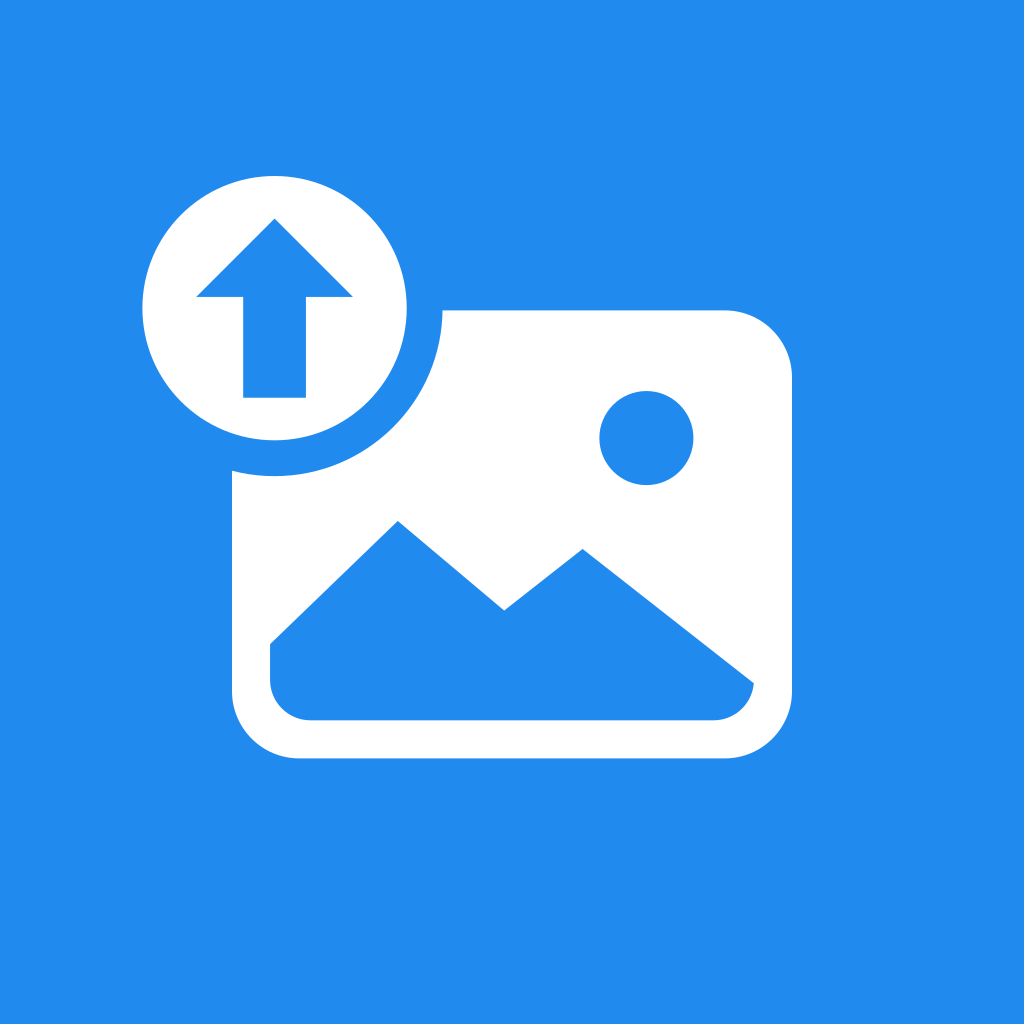
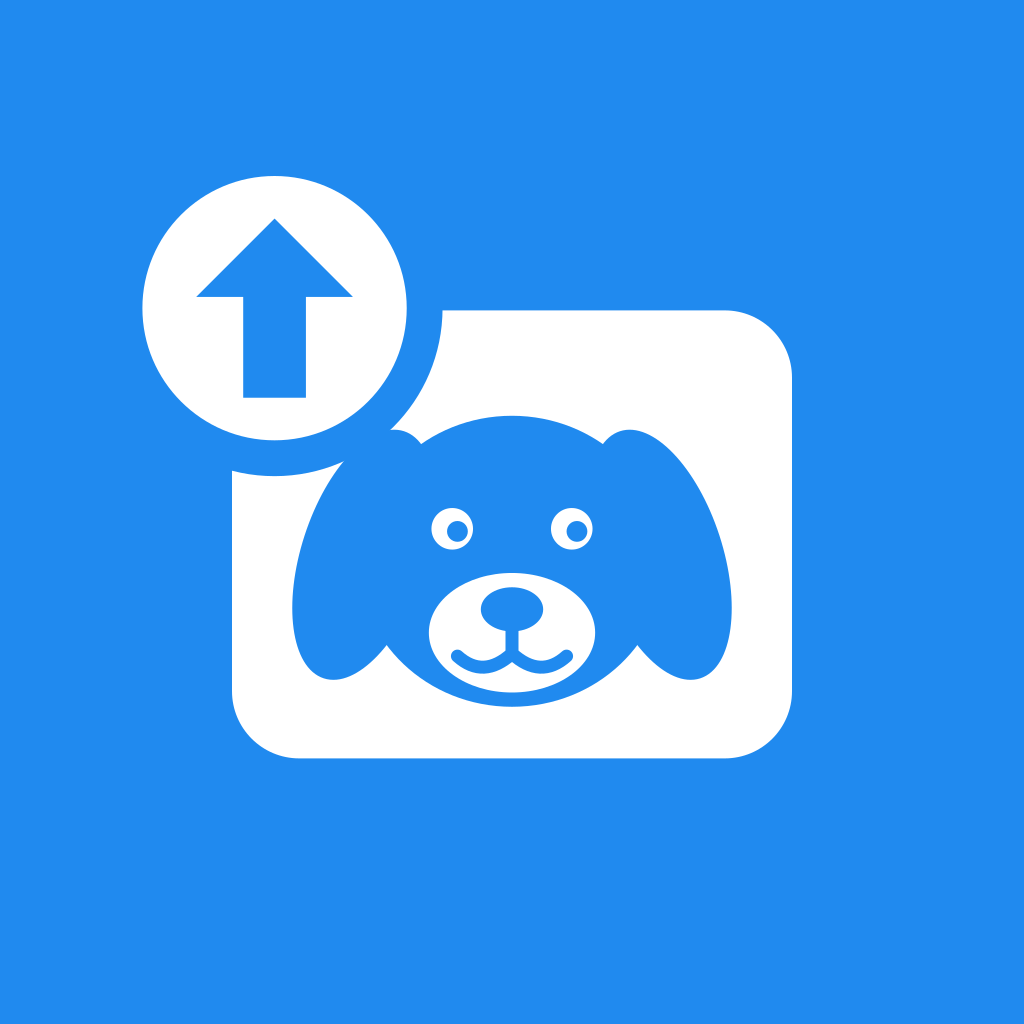
dog

Changed region(s): [[0.25, 0.375, 0.75, 0.7188]]

diff --git a/assets/logo/make.js b/assets/logo/make.js
@@ -20,10 +20,24 @@ function artwork(ink, hole) {
     <!-- picture area inset from the card so a white frame shows on every side -->
     <clipPath id="picture"><rect x="296" y="366" width="432" height="332" rx="36"/></clipPath>
     <g clip-path="url(#picture)">
-      <!-- sun -->
-      <circle cx="632" cy="446" r="42" fill="${hole}"/>
-      <!-- mountains -->
-      <path d="M296 720 L296 630 L410 520 L505 600 L575 545 L728 665 L728 720 Z" fill="${hole}"/>
+     <g transform="translate(512 556) scale(1.16) translate(-512 -545)">
+      <!-- dog: floppy ears -->
+      <ellipse cx="398" cy="540" rx="48" ry="100" transform="rotate(18 398 540)" fill="${hole}"/>
+      <ellipse cx="626" cy="540" rx="48" ry="100" transform="rotate(-18 626 540)" fill="${hole}"/>
+      <!-- head -->
+      <ellipse cx="512" cy="545" rx="118" ry="112" fill="${hole}"/>
+      <!-- muzzle -->
+      <ellipse cx="512" cy="600" rx="64" ry="46" fill="${ink}"/>
+      <!-- nose -->
+      <ellipse cx="512" cy="582" rx="24" ry="17" fill="${hole}"/>
+      <!-- mouth -->
+      <path d="M512 598 L512 616 M512 616 Q490 636 470 618 M512 616 Q534 636 554 618" stroke="${hole}" stroke-width="10" stroke-linecap="round" fill="none"/>
+      <!-- eyes -->
+      <circle cx="466" cy="520" r="16" fill="${ink}"/>
+      <circle cx="558" cy="520" r="16" fill="${ink}"/>
+      <circle cx="470" cy="522" r="8" fill="${hole}"/>
+      <circle cx="562" cy="522" r="8" fill="${hole}"/>
+     </g>
     </g>
     <!-- upload badge overlapping the card's top-left corner -->
     <circle cx="300" cy="330" r="150" fill="${hole}"/>
